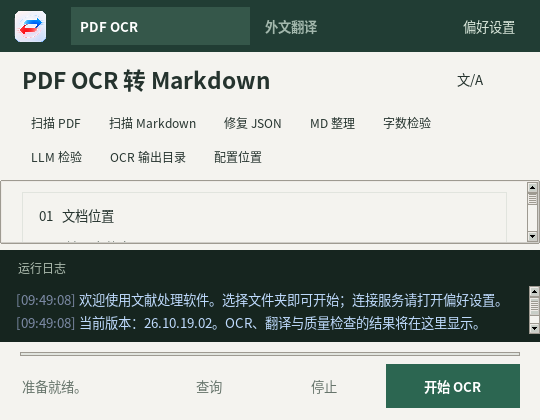
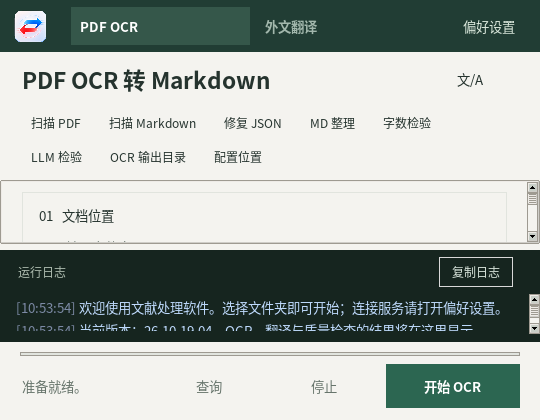
test: verify copy interactions and refresh 26.10.19.04 screenshots

Changed region(s): [[0.0296, 0.619, 0.9481, 0.8048], [0.9778, 0.681, 1.0, 0.7738]]

diff --git a/tests/test_copy_ui.py b/tests/test_copy_ui.py
@@ -97,6 +97,21 @@ class CopyInteractionTests(unittest.TestCase):
         text.event_generate('<<Copy>>')
         self.assertEqual(self.root.clipboard_get(), 'keep me')
 
+    def test_copy_context_menu_preserves_a_modal_dialog_grab(self):
+        dialog = tk.Toplevel(self.root)
+        text = tk.Text(dialog)
+        text.pack()
+        text.insert('1.0', 'diagnostic')
+        ui_i18n.localize_widgets(dialog)
+        self.root.update()
+        dialog.grab_set()
+        text.event_generate('<Button-3>', x=3, y=3)
+        self.assertEqual(self.root.grab_current(), dialog)
+        text._copy_menu.invoke(1)
+        self.assertEqual(self.root.clipboard_get(), 'diagnostic')
+        text._copy_menu.unpost()
+        dialog.destroy()
+
     def test_log_and_update_buttons_copy_full_failure_details_in_both_languages(self):
         app = self.app()
         app.log('HTTP 403: https://api.github.com/example')

diff --git a/ui_i18n.py b/ui_i18n.py
@@ -148,10 +148,13 @@ def enable_copy(widget):
             menu.entryconfigure(len(captions) - 2, state="normal" if editable and widget_text(widget, True) else "disabled")
             menu.entryconfigure(len(captions) - 1, state="normal" if editable else "disabled")
         widget.focus_set()
+        previous_grab = widget.grab_current()
         try:
             menu.tk_popup(event.x_root, event.y_root)
         finally:
             menu.grab_release()
+            if previous_grab is not None and previous_grab.winfo_exists():
+                previous_grab.grab_set()
         return "break"
 
     for event in ("<Control-c>", "<Control-Insert>", "<<Copy>>"):

diff --git a/README.md b/README.md
@@ -1446,6 +1446,9 @@ python tests/verify_frozen_source.py
 It builds a small probe and verifies built-in code, a source override, tamper rejection and fallback. It does not build the production GUI or test Windows file replacement/restart.  
 该脚本编译小型测试程序，验证内置代码、源码覆盖、篡改拒绝及回退；不构建正式 GUI，也不代替 Windows 文件替换／重启验证。
 
+Copy tests use a real Tk clipboard to verify selection/full-text copying, disabled controls, modal dialogs, full status values and bilingual buttons. The **Windows update helper** GitHub Actions job runs `tests/test_windows_update_helper.py` on Windows: it checks the real PowerShell startup handshake with Unicode/quoted paths and captures an intentional parser failure before the handshake. It stops the helper before replacing or launching an EXE; non-Windows runs explicitly skip these two tests.  
+复制测试使用真实 Tk 剪贴板，覆盖选区／全文、禁用控件、模态弹窗、完整状态值与双语按钮。GitHub Actions 的 **Windows update helper** 任务在 Windows 运行 `tests/test_windows_update_helper.py`：验证真实 PowerShell 在中文／引号路径下的启动握手，并捕获握手前的故意解析失败。测试会在替换或启动 EXE 前停止助手，不代替完整安装／重启实机测试；非 Windows 环境明确跳过这两项。
+
 ---
 
 <a id="release-notes"></a>
